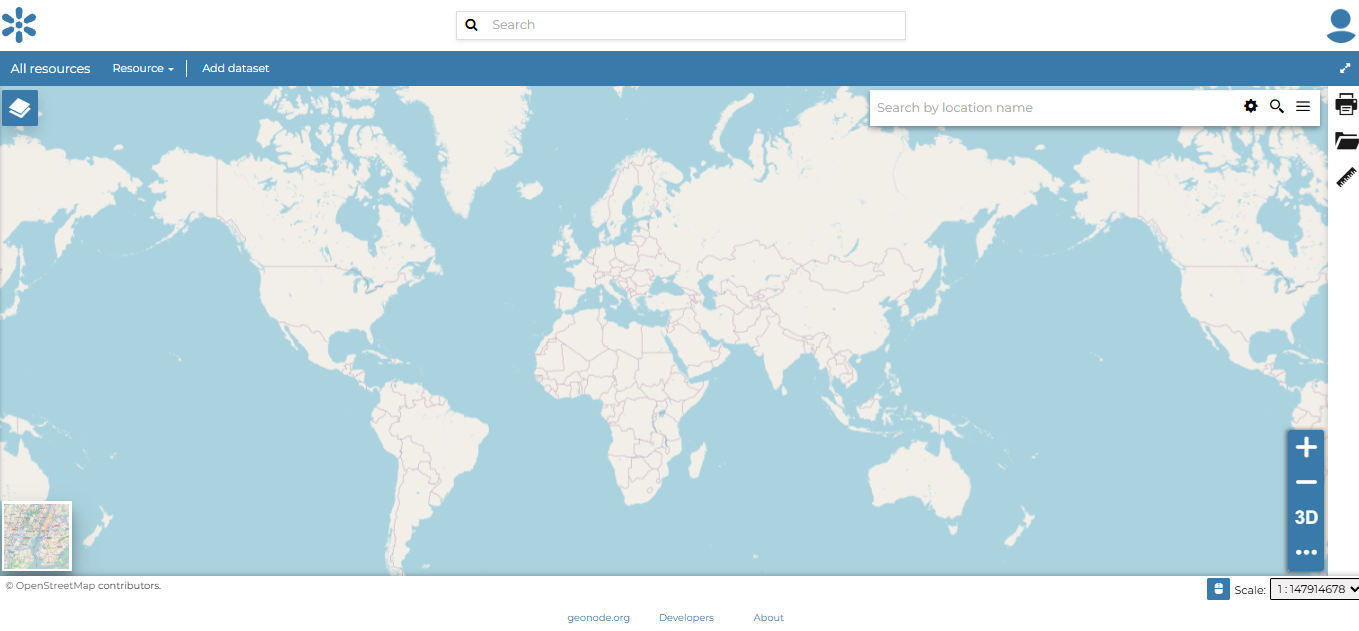
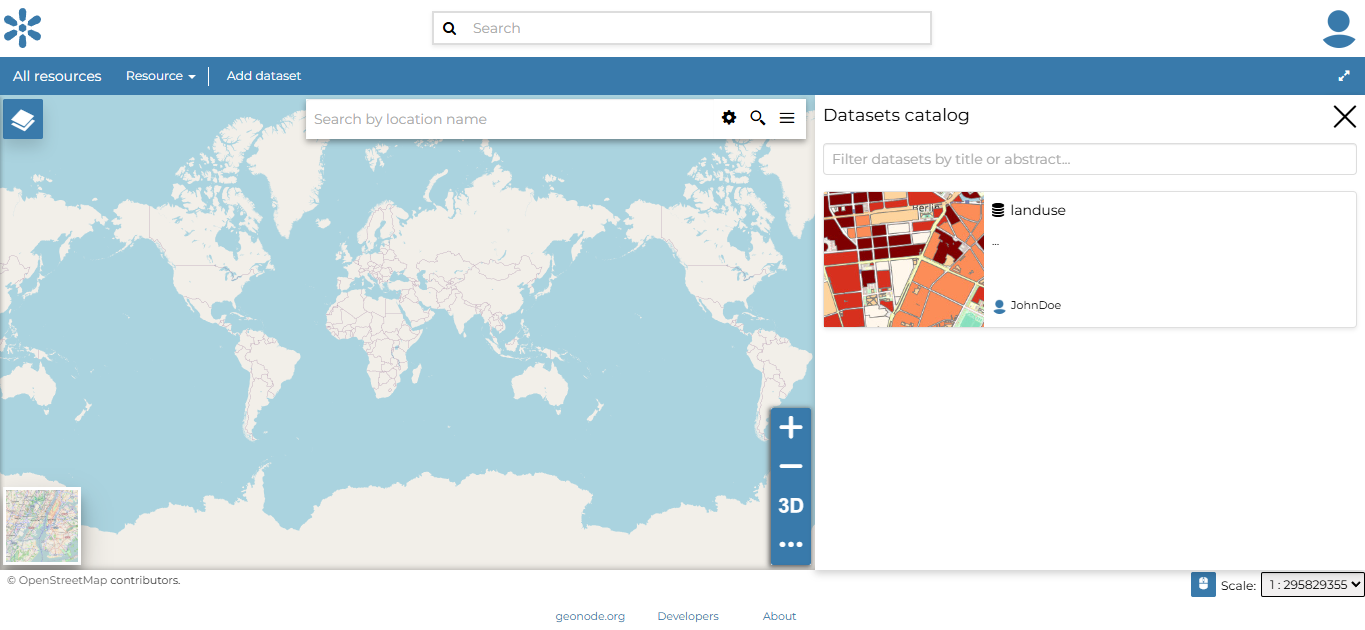
Update: GeoNode Manual - Maps

diff --git a/docs/src/products/geonode/manual/map.md b/docs/src/products/geonode/manual/map.md
@@ -14,134 +14,74 @@ context_id: nDU6LLGiXPTLADXY
 
 # Creating a Map
 
-## Overview
-
-Maps are **collections of datasets** displayed together on an **interactive web map**. These maps can be composed using the map composer and saved as GeoNode resources. Additionally, maps can be enriched with metadata, ratings, and user comments.
+In GeoNode, **maps** are interactive views made by combining multiple datasets (layers). You can use the built-in Map Composer to create, style, and save these maps as GeoNode resources. Once published, maps can be enriched with metadata, ratings, and user comments.
 
 <br>
 
-You can create map in three ways:
+## Step 1: Create a New Map
 
-1. **From the All Resources Page:**
+1. On the <span class="ui-page-label">Homepage</span>, go to the <span class="ui-generic-label">Maps</span> tab.
 
-     Click **Add Resource** and select **Create map** from the list.
-
-     <br>
-
-2. **From the Maps Page:**
-
-     Click **New**.
-
-     <br>
-
-3. **From the Datasets Page:**
-
-     Click **View** and select **Create map**.
-
-     <br>
-
-When you create a new map, it will automatically open in the **Map Viewer**. In the upper left corner, you’ll find the **TOC (Table of Contents)** button. This opens the TOC panel, where you can manage all the datasets associated with the map.
+2. Click the <span class="ui-generic-label">New</span> button to open the map composer.
 
 <br>
 
----
-
-## Exercise
-
-Follow these steps to create a map in GeoNode:
-
-1. On the GeoNode **Homepage**, click the **Maps** tab.
-
-     <br>
-
-     <div style="text-align: center;">
-      <img src="../../img/geonode-img-22.png" alt="Maps Tab" width=auto>
-      <div style="font-size: 0.8em; color: gray; margin-top: 4px;">
-      Image credit: <a href="https://geonode.org/" target="_blank">GeoNode</a>
-      </div>
-     </div>
-
-     <br>
-
-2. Click the **New** button.
-
-     <br>
-
-     <div style="text-align: center;">
-      <img src="../../img/geonode-img-23.png" alt="New Map Button" width=auto>
-      <div style="font-size: 0.8em; color: gray; margin-top: 4px;">
-      Image credit: <a href="https://geonode.org/" target="_blank">GeoNode</a>
-      </div>
-     </div>
-
-     <br>
-
-3. In the **Map Viewer**, click **Add Dataset** from the top-navigation bar.
-
-     <br>
-
-     <div style="text-align: center;">
-      <img src="../../img/geonode-img-24.png" alt="Add Dataset Button" width=auto>
-      <div style="font-size: 0.8em; color: gray; margin-top: 4px;">
-      Image credit: <a href="https://geonode.org/" target="_blank">GeoNode</a>
-      </div>
-     </div>
-
-     <br>
-
-4. In the **Datasets Catalog** pane, select your previously uploaded `buildings` layer.
-
-     <br>
-
-     <div style="text-align: center;">
-      <img src="../../img/geonode-img-25.png" alt="Add Dataset" width=auto>
-      <div style="font-size: 0.8em; color: gray; margin-top: 4px;">
-      Image credit: <a href="https://geonode.org/" target="_blank">GeoNode</a>
-      </div>
-     </div>
-
-     <br>
-
-5. Under the **Resources** link in the top-navigation toolbar, select **Save As**.
-
-     <br>
-
-     <div style="text-align: center;">
-      <img src="../../img/geonode-img-26.png" alt="Save As" width=auto>
-      <div style="font-size: 0.8em; color: gray; margin-top: 4px;">
-      Image credit: <a href="https://geonode.org/" target="_blank">GeoNode</a>
-      </div>
-     </div>
-
-     <br>
-
-6. In the **Save** pop-up, give your map a **Title** and **Description**
-
-     <br>
-
-You should now see your map listed on the **All Resources** page.
-
-<br>
-
-<div style="text-align: center;">
- <img src="../../img/geonode-img-27.png" alt="New Map" width=auto>
- <div style="font-size: 0.8em; color: gray; margin-top: 4px;">
- Image credit: <a href="https://geonode.org/" target="_blank">GeoNode</a>
- </div>
+<div class="image-with-caption">
+  <img src="../../img/geonode-img-23.png" alt="New Map Button">
+  <div class="caption">
+    Image credit: <a href="https://geonode.org/" target="_blank">GeoNode</a>
+  </div>
 </div>
 
 <br>
 
-> **Note:** For more details, refer to the [Managing Maps](https://docs.geonode.org/en/master/usage/managing_maps/index.html#managing-maps) section of the official GeoNode documentation.
+<div class="alert alert-hint">
+  <div class="alert-icon">💡</div>
+  <div class="alert-text">
+    You can also create maps from the <strong>All Resources</strong> page via <strong>Add Resource → Create map</strong>.
+  </div>
+</div>
+
+<br>
+
+## Step 2: Add a Dataset
+
+1. In the <span class="ui-page-label">Map Viewer</span>, click <span class="ui-generic-label">Add Dataset</span> from the top navigation bar.
+
+2. In the <span class="ui-page-label">Dataset Catalog</span>, select the <span class="ui-filename">landuse</span> layer you uploaded earlier.
+
+<br>
+
+<div class="image-with-caption">
+  <img src="../../img/geonode-img-24.png" alt="Add Dataset">
+  <div class="caption">
+    Image credit: <a href="https://geonode.org/" target="_blank">GeoNode</a>
+  </div>
+</div>
+
+<br>
+
+## Step 3: Save Your Map
+
+1. Click the <span class="ui-generic-label">Resources</span> menu in the top toolbar and choose <span class="ui-generic-label">Save As</span>.
+
+2. In the popup, enter a **Title** and **Description** for your new map.
+
+3. Click <span class="ui-generic-label">Save</span>.
+
+<br>
+
+<div class="image-with-caption">
+  <img src="../../img/geonode-img-25.png" alt="Save Map">
+  <div class="caption">
+    Image credit: <a href="https://geonode.org/" target="_blank">GeoNode</a>
+  </div>
+</div>
+
+<br>
 
 ---
 
-# Need More Help?
+**Next up:** Learn how to publish a map by combining layers, styles, and basemaps into a shareable interactive view.
 
-Visit the official GeoNode documentation:
-
-- **[https://docs.geonode.org/en/master/](https://docs.geonode.org/en/master/)**
-
----
-
-© 2024 Kartoza. Licensed under the GNU AGPL v3.
+<br>
